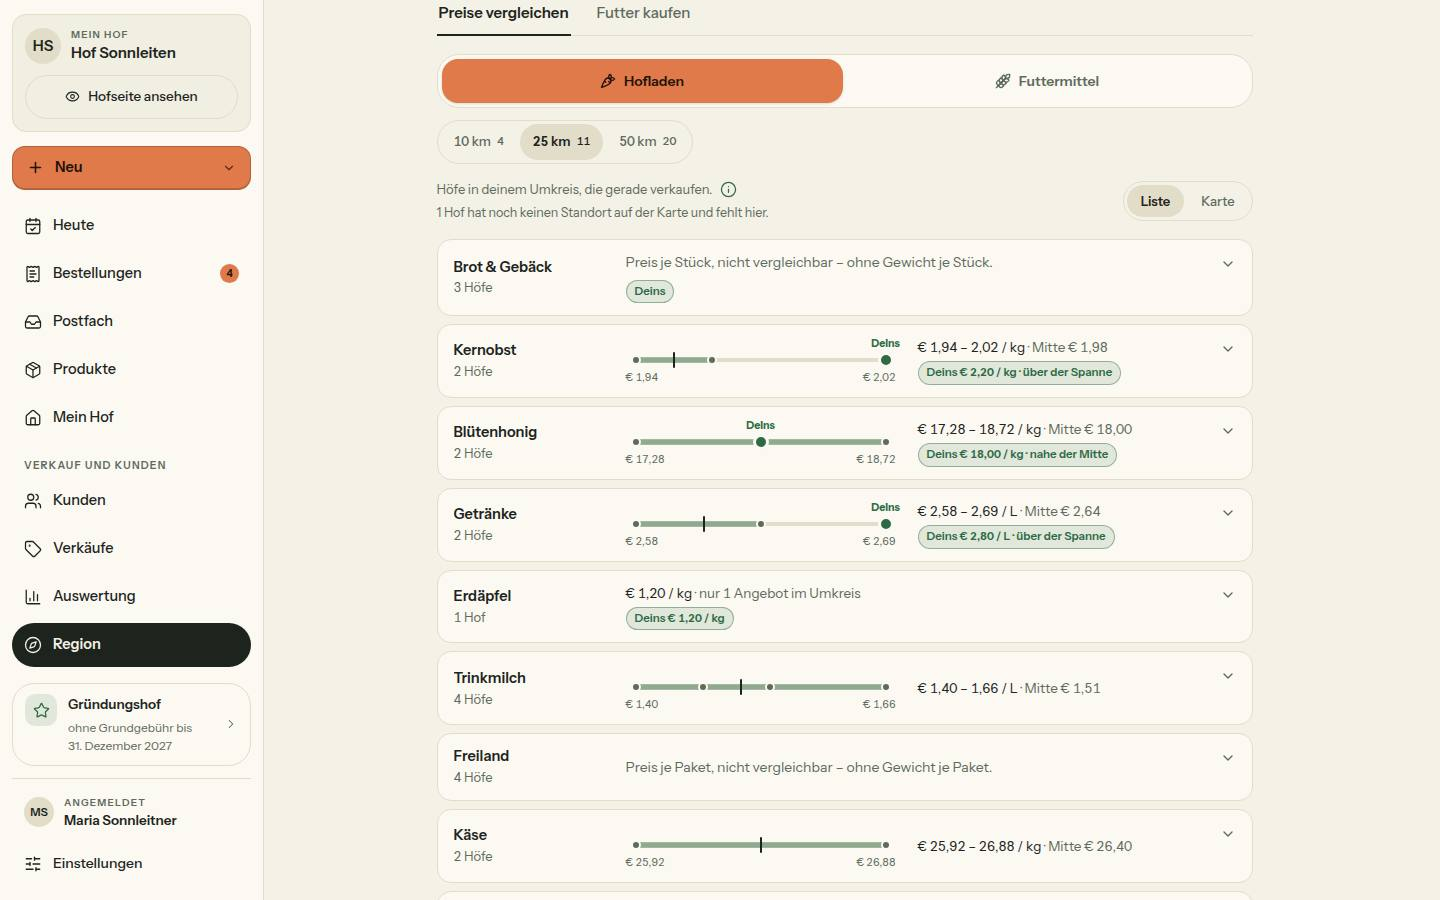
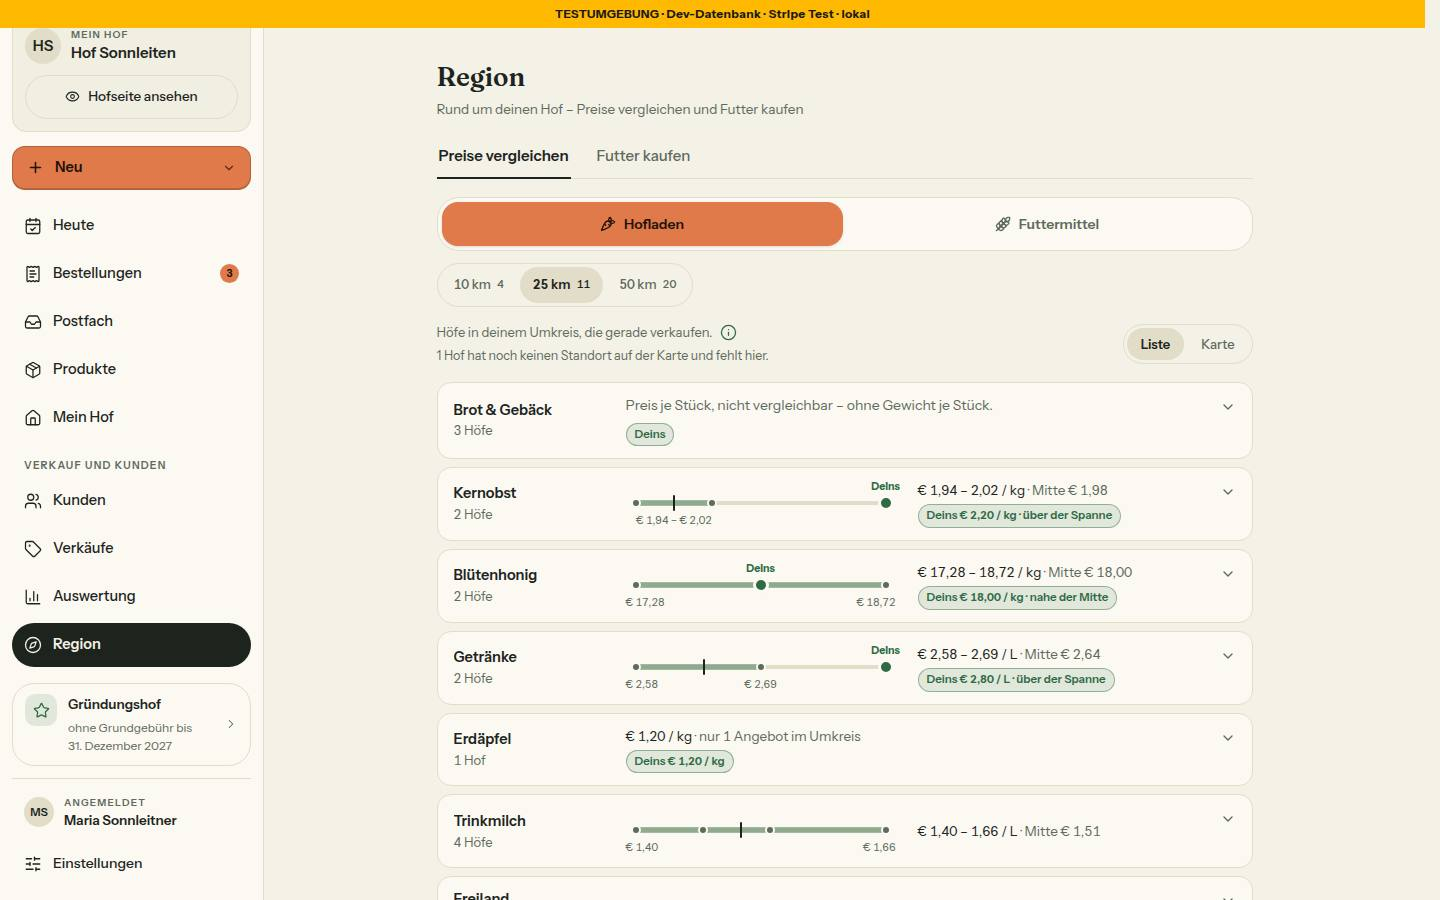
fix: Nr. 124 Nachrunde – Kleinst- und Höchstwert unter den Enden der Spanne
- PreisStreifen: Liegt „Deins“ außerhalb der Spanne, stehen Kleinst- und
  Höchstwert weiter unter den Enden der Spanne statt unter den Enden der
  Spur (sonst las man unter „Deins“ den Wert der Höfe); liegen sie eng,
  steht ein gemeinsames „von – bis“ (Render-Tests mit Gegenprobe)
- Bilder der Liste (390 hell und dunkel, 1440) neu aufgenommen
- DESIGN_SYSTEM und Bericht: Beschriftung der Enden, Leitplanke „kein
  Preis an den Pins“ genau benannt

Claude-Session: https://claude.ai/code/session_016mcnK6M2any3pAayV5rccV

diff --git a/src/components/region/preis-streifen.tsx b/src/components/region/preis-streifen.tsx
@@ -19,6 +19,10 @@ import { cn } from '@/lib/utils'
  *
  * Gezeichnet wird über die Spanne der Höfe hinaus, wenn „Deins" außerhalb
  * liegt — die Skala reicht dann bis zu deinem Wert (Board: „über der Spanne").
+ * Kleinst- und Höchstwert stehen auch dann unter den Enden der SPANNE, nicht
+ * unter den Enden der Spur: sonst läse man unter „Deins" den Höchst- bzw.
+ * Kleinstwert der Höfe als deinen Preis. Liegen die Enden zu eng, steht ein
+ * gemeinsames „von – bis" unter der Spanne.
  */
 
 /** Innenrand der Spur: So weit stehen die äußeren Punkte von der Kante. */
@@ -29,12 +33,25 @@ function links(anteil: number): CSSProperties {
   return { left: `calc(${RAND_PX}px + ${anteil} * (100% - ${2 * RAND_PX}px))` }
 }
 
+/** Unter diesem Abstand (Anteil der Spur) passen zwei Beschriftungen nicht nebeneinander. */
+const ENDEN_MIN_ABSTAND = 0.35
+
+/** Eine Beschriftung unter ihrer Stelle: nahe am Rand bündig, sonst mittig — so ragt sie nicht aus dem Bild. */
+function unterDerStelle(anteil: number): CSSProperties {
+  const verschiebung = anteil < 0.15 ? '0%' : anteil > 0.85 ? '-100%' : '-50%'
+  return { ...links(anteil), transform: `translateX(${verschiebung})` }
+}
+
+const ENDE_KLASSE = 'absolute top-[33px] text-[11px] leading-[14px] whitespace-nowrap text-muted-foreground tabular-nums'
+
 export function PreisStreifen({ streifen, className }: { streifen: PreisStreifenDaten; className?: string }): React.JSX.Element {
   const { werte, kleinst, hoechst, mitte, deins } = streifen
   const von = deins === null ? kleinst : Math.min(kleinst, deins)
   const bis = deins === null ? hoechst : Math.max(hoechst, deins)
   // Ein Streifen gibt es nur mit verschiedenen Werten (src/lib/umfeld.ts) — bis > von.
   const anteil = (wert: number) => (wert - von) / (bis - von)
+  const kleinstAnteil = anteil(kleinst)
+  const hoechstAnteil = anteil(hoechst)
 
   return (
     <span role="img" aria-label={streifen.satz} className={cn('relative block h-12 shrink-0', className)}>
@@ -74,8 +91,21 @@ export function PreisStreifen({ streifen, className }: { streifen: PreisStreifen
           </span>
         </>
       )}
-      <span className="absolute top-[33px] left-0 text-[11px] leading-[14px] text-muted-foreground tabular-nums">{streifen.kleinstText}</span>
-      <span className="absolute top-[33px] right-0 text-[11px] leading-[14px] text-muted-foreground tabular-nums">{streifen.hoechstText}</span>
+      {hoechstAnteil - kleinstAnteil < ENDEN_MIN_ABSTAND ? (
+        <span data-ende="spanne" className={ENDE_KLASSE} style={unterDerStelle((kleinstAnteil + hoechstAnteil) / 2)}>
+          {streifen.kleinstText} – {streifen.hoechstText}
+        </span>
+      ) : (
+        <>
+          {/* Liegt „Deins" innerhalb, sind die Enden der Spanne die Enden der Spur. */}
+          <span data-ende="kleinst" className={cn(ENDE_KLASSE, kleinstAnteil === 0 && 'left-0')} style={kleinstAnteil === 0 ? undefined : unterDerStelle(kleinstAnteil)}>
+            {streifen.kleinstText}
+          </span>
+          <span data-ende="hoechst" className={cn(ENDE_KLASSE, hoechstAnteil === 1 && 'right-0')} style={hoechstAnteil === 1 ? undefined : unterDerStelle(hoechstAnteil)}>
+            {streifen.hoechstText}
+          </span>
+        </>
+      )}
     </span>
   )
 }

diff --git a/tests/preis-streifen.test.ts b/tests/preis-streifen.test.ts
@@ -285,6 +285,43 @@ describe('PreisStreifen — ein Bild mit Satz, ohne Namen und ohne Antippen', ()
     expect(html.split(daten.satz)).toHaveLength(2)
   })
 
+  /** Das Element mit `data-ende="…"` als Text samt Attributen. */
+  const ende = (html: string, art: string) => html.match(new RegExp(`<span data-ende="${art}"[^>]*>[^<]*`))?.[0] ?? ''
+
+  it('„Deins" innerhalb: Kleinst- und Höchstwert an den Enden der Spur', () => {
+    const html = renderToStaticMarkup(createElement(PreisStreifen, { streifen: daten }))
+    expect(ende(html, 'kleinst')).toContain('left-0')
+    expect(ende(html, 'kleinst')).toContain('€ 1,47')
+    expect(ende(html, 'hoechst')).toContain('right-0')
+    expect(ende(html, 'hoechst')).toContain('€ 1,66')
+  })
+
+  it('„Deins" über der Spanne: der Höchstwert steht unter dem Ende der Spanne, nicht unter „Deins"', () => {
+    // Skala 147–175: das Ende der Spanne (166) liegt bei 19/28 der Spur.
+    const html = renderToStaticMarkup(createElement(PreisStreifen, { streifen: { ...daten, deins: 175 } }))
+    const hoechst = ende(html, 'hoechst')
+    expect(hoechst).not.toContain('right-0')
+    expect(hoechst).toContain(`${19 / 28} *`)
+    expect(hoechst).toContain('translateX(-50%)')
+    expect(ende(html, 'kleinst')).toContain('left-0')
+  })
+
+  it('„Deins" unter der Spanne: der Kleinstwert steht unter dem Ende der Spanne', () => {
+    // Skala 120–166: das Ende der Spanne (147) liegt bei 27/46 der Spur.
+    const html = renderToStaticMarkup(createElement(PreisStreifen, { streifen: { ...daten, deins: 120 } }))
+    const kleinst = ende(html, 'kleinst')
+    expect(kleinst).not.toContain('left-0')
+    expect(kleinst).toContain(`${27 / 46} *`)
+    expect(ende(html, 'hoechst')).toContain('right-0')
+  })
+
+  it('liegen die Enden der Spanne eng (Deins weit draußen), steht ein gemeinsames „von – bis" unter der Spanne', () => {
+    const html = renderToStaticMarkup(createElement(PreisStreifen, { streifen: { ...daten, deins: 220 } }))
+    expect(ende(html, 'spanne')).toContain('€ 1,47 – € 1,66')
+    expect(html).not.toContain('data-ende="kleinst"')
+    expect(html).not.toContain('data-ende="hoechst"')
+  })
+
   it('ohne „Deins" kein grüner Punkt und kein Wort „Deins"', () => {
     const html = renderToStaticMarkup(createElement(PreisStreifen, { streifen: { ...daten, deins: null, satz: '3 Höfe von € 1,47 bis € 1,66 / L, Mitte € 1,58' } }))
     expect(html).not.toContain('data-punkt="deins"')

diff --git a/docs/ai/DESIGN_SYSTEM.md b/docs/ai/DESIGN_SYSTEM.md
@@ -564,7 +564,7 @@ Umgesetzt in `src/components/shells/` (KundeShell, KundeFokusShell, HofShell, Ad
 - **In der HofShell** (Mockups web-h5-region-preise, web-h5-region-futter-kaufen; Rahmen `REGION_RAHMEN`, höchstens 896 px). Kopf `RegionKopf`: h1 „Region", „Rund um deinen Hof – Preise vergleichen und Futter kaufen", Reiter als Unterstrich-Links (gewählt Textfarbe mit Strich, `aria-current`). Umkreis als Wanne `KmWahl` (10 · 25 · 50 km, Links, sichtbar 36 px mit 44 px Trefferfläche; mit `zahlen` steht hinter jeder Stufe ihre Zahl, „25 km 8“, die Wanne heißt dann nach `zahlLabel`, etwa „Umkreis, Zahl der Höfe je Stufe“; gezählt in `zaehleJeStufe`) in beiden Reitern.
 - **Eine Quelle mit /hoefe (Register N23, seit Nr. 122):** Region importiert die Bausteine von /hoefe, keine Kopien in src/components/region — `HofKopf` (Name in Serif, Entfernung, PLZ und Ort; mit `bild` 40 px rund bzw. 48 px), `HofKarte`, `HoefeProduktzeilen`, `Abholzeile` und die kurze Hofkarte am Pin `HofKurzkarte` mit `art: 'region'` (Bereich „Hof <Name>“, „Zum Hof“ im Tab-Weg, „Schließen“ mit 44 px und Escape; beim Öffnen Fokus auf die Karte, beim Schließen zurück auf den Pin; den Inhalt unter dem Kopf gibt der Reiter). „So rechnen wir“ ist `ErklaerKnopf`: (i)-Knopf mit dem Titel als `aria-label` (44 px), Dialog aus `ui/dialog` mit Überschrift, Punkten mit Haken und „Verstanden“ (am Handy unten). Der Hinweis auf Höfe ohne Standort kommt aus `ohneStandortHinweis` (lang über Liste und Karte, `kurz` auf der Handy-Karte).
 - **Preise vergleichen (seit Nr. 124, N23; Board v3 §2 und §4):** Bereich-Umschalter (beim Wechsel der Ladepunkt an der gewählten Hälfte, Inhalt `aria-busy`), `KmWahl` mit Zahl je Stufe (`zahlenJeStufe`, `zahlLabel` „Umkreis, Zahl der Höfe je Stufe“), darunter EIN Satz „Höfe in deinem Umkreis, die gerade verkaufen.“ mit `ErklaerKnopf` „So rechnen wir“ (fünf Punkte aus `UMFELD_TEXT`, Knopf „Verstanden“) und den Hinweisen, rechts `Segment` „Liste | Karte" (Zustand der Seite, `replaceState`). Zeilen als Karten (Radius 14, geöffnet grüner Rand): am Computer Sorte und Anzahl (150 px), Streifen (270 px), daneben Spanne · Mitte und „Deins“; am Handy zweizeilig — Sorte und Anzahl, darunter der Streifen über die volle Breite, dann der Text. „Deins" als grüne Marke (`bg-accent/12`, `border-accent/45`, `text-status-fertig`) mit der Lage in Worten („Deins € 1,50 / L · unter der Mitte“). Ein Hof: kein Streifen, „€ 2,90 / kg · nur 1 Angebot im Umkreis“; gleiche Werte: die Zeile ohne Streifen und ohne Mitte; im Futter je Gebindeklasse ein Streifen („Kleingebinde bis 25 kg“, „Großgebinde über 25 kg“). Nicht vergleichbar: der Grund aus `NICHT_VERGLEICHBAR_TEXT`. Aufgeklappt je Hof `HofKopf` (Bild 40, der ganze Kopf ist der Link zur Hofseite) und die Produktzeile (`HoefeProduktzeilen`, Kante 40) des Produkts, das zählt; nach Entfernung, ab dem vierten „n weitere Höfe“, darunter „Kaufen geht über die Hofseite.“ Karte: Pins mit Namen (Regel von /hoefe), „Du“ und Umkreis; Antippen bzw. Enter öffnet `HofKurzkarte` „region“ (am Handy volle Breite unten, am Computer 320 px links unten) mit den ersten zwei kaufbaren Produkten in der Reihenfolge der Hofseite und „Zum Hof“, keine Abholzeile. Leer: `EmptyState` mit „Umkreis auf n km".
-- **`PreisStreifen` (`src/components/region/preis-streifen.tsx`, Register N23):** die Spanne als Bild, 270 × 48 px am Computer, volle Breite am Handy (der Aufrufer gibt die Breite). Spur 4 px (`bg-border`) mit 10 px Innenrand, darauf die Spanne der Höfe 6 px (`bg-accent/45`, Schmuck); je Hof ein Punkt 10 px (`bg-muted-foreground`, 2 px Rand in `card`), die Mitte als Strich 2 × 16 px (`bg-foreground`), „Deins“ als Punkt 16 px (`bg-status-fertig`, 3 px Rand in `card`) mit dem Wort „Deins“ darüber (10,5 px, fett); Kleinst- und Höchstwert unter den Enden (11 px, `text-muted-foreground`). Liegt „Deins“ außerhalb, reicht die Skala bis dorthin. Punkte und Strich ≥ 3:1 zur Karte in beiden Themes. `role="img"` mit dem ganzen Satz als `aria-label` („3 Höfe von € 1,47 bis € 1,66 / L, Mitte € 1,58; deiner € 1,50, unter der Mitte“); die Punkte haben keinen Namen, keinen Titel, keinen Tooltip und sind nicht antippbar. Gerechnet wird in `src/lib/umfeld.ts` mit ganzen Zahlen der kleinsten gezeigten Einheit (Cent, bei € / t und € / dt ganze Euro); der Streifen erst ab zwei Höfen mit verschiedenen Werten, „Deins“ nur bei genau einem eigenen Wert. Leitplanken als Prüfung: `tests/umfeld-leitplanken.test.ts`.
+- **`PreisStreifen` (`src/components/region/preis-streifen.tsx`, Register N23):** die Spanne als Bild, 270 × 48 px am Computer, volle Breite am Handy (der Aufrufer gibt die Breite). Spur 4 px (`bg-border`) mit 10 px Innenrand, darauf die Spanne der Höfe 6 px (`bg-accent/45`, Schmuck); je Hof ein Punkt 10 px (`bg-muted-foreground`, 2 px Rand in `card`), die Mitte als Strich 2 × 16 px (`bg-foreground`), „Deins“ als Punkt 16 px (`bg-status-fertig`, 3 px Rand in `card`) mit dem Wort „Deins“ darüber (10,5 px, fett); Kleinst- und Höchstwert unter den Enden der Spanne (11 px, `text-muted-foreground`). Liegt „Deins“ außerhalb, reicht die Skala bis dorthin; die beiden Werte stehen dann weiter unter den Enden der Spanne, nicht unter „Deins“, und liegen sie zu eng, steht ein gemeinsames „von – bis“ darunter. Punkte und Strich ≥ 3:1 zur Karte in beiden Themes. `role="img"` mit dem ganzen Satz als `aria-label` („3 Höfe von € 1,47 bis € 1,66 / L, Mitte € 1,58; deiner € 1,50, unter der Mitte“); die Punkte haben keinen Namen, keinen Titel, keinen Tooltip und sind nicht antippbar. Gerechnet wird in `src/lib/umfeld.ts` mit ganzen Zahlen der kleinsten gezeigten Einheit (Cent, bei € / t und € / dt ganze Euro); der Streifen erst ab zwei Höfen mit verschiedenen Werten, „Deins“ nur bei genau einem eigenen Wert. Leitplanken als Prüfung: `tests/umfeld-leitplanken.test.ts`.
 - **Futter kaufen:** Umkreis, Futterart (`FilterChip`-Links: Alle und die Kategorien des Bereichs, die es gibt) und Menge (Alle Mengen · Kleinmengen · Ballen & mehr, nur was es gibt); Satz „Hier siehst du nur registrierte Futtermittelbetriebe – du kaufst für deine Tiere." Je Familie eine Karte: Name (zwei Zeilen, `title`), „Hof · Entfernung · Abholung …", grünes Schild mit Schild-Symbol im Wortlaut E9, rechts „Grundpreis" mit Wert, darunter die Größen als Link-Kacheln (Name, Preis, 44 px) und grün „Bestellen" (Link zur Produktseite). Größen und „Bestellen" tragen `?kaeufer=betrieb` (seit Nr. 29): In der Kasse ist „Ich bestelle als landwirtschaftlicher Betrieb" schon angehakt, sobald der Abschnitt „Betrieb" erscheint; die Kundin kann den Haken abwählen. Sonst ändert sich an der Kasse nichts — kein Hinweis, kein eigener Zustand. Am Ende gestrichelt „Du verkaufst selbst Futter? …" mit Link „Futtermittel anlegen". Leer: `EmptyState` mit „Alles Futter zeigen" bzw. „Umkreis auf n km". Keine Karte (Abweichung zum Mockup).
 - **Zustände beider Reiter:** ohne eigenen Standort (Board v2 §4) `EmptyState` „Wo liegt dein Hof?“ mit beiden Folgen im Satz und grün „Standort auf der Karte setzen“ (direkt zur Karte im Hofprofil, `STANDORT_SETZEN_HREF`), darunter „So steht dein Hof gerade in der Liste der Kundschaft“ mit der eigenen `HofKarte` samt „Nicht auf der Karte“ — genau der Eintrag von /hoefe; steht der Hof nicht in der Liste (Testhof, nicht sichtbar), ein Satz statt der Karte. Laden: keine `loading.tsx` — die alte Ansicht bleibt stehen, der gewählte Reiter bzw. die gewählte Stufe des Umkreises zeigt den Ladepunkt, der Inhalt trägt `aria-busy` (`LadeRahmen`, `LadeInhalt`); `RegionLaden` zeigt nur noch die Umleitung /analytics/umfeld. Fehler orange `Hinweiskarte` mit „Noch einmal versuchen".
 

diff --git a/docs/nachtlauf/berichte/124.md b/docs/nachtlauf/berichte/124.md
@@ -18,7 +18,7 @@ tests/{preis-streifen,region-bausteine,umfeld-karte,umfeld-leitplanken,umfeld-qu
 
 ## Leitplanken als Prüfungen (für die rechtliche Prüfung)
 1. Kein Text empfiehlt oder wertet: Wache über alle String-Literale/JSX-Texte von `umfeld.ts`, `umfeld-*.tsx`, `preis-streifen.tsx` (ohne className, Wortanfang, Umlaut-Grenze); verboten „empfehl/empfiehl“ (außer „empfiehlt keine“), „solltest“, „zu teuer/billig/günstig“, „erhöh“, „senk“, „günstiger als“, „teurer als“, „Rang“. Gegenprobe „Du solltest erhöhen“ rot (`umfeld-leitplanken.test.ts`).
-2. Kein Preis in den Daten der Pins: `JSON.stringify(baueUmfeldKarte(…))` ohne „€“, Gegenprobe Zeilen mit „€“; dazu Integrationstest.
+2. Kein Preis an den Pins: `KartenHof` (die Pins) bekommt nur Kennung, Nummer, Lage und Namen (Test in `umfeld-karte`); `JSON.stringify(baueUmfeldKarte(…))` ohne „€“ (Gegenprobe Zeilen mit „€“). Die Daten der Karte am Pin tragen die Preise der zwei Produkte als Zahl – sie erscheinen erst nach dem Antippen, wie auf der Hofseite.
 3. Keine Sortierung nach Preis: aufgeklappte Zeile, Zeilen und Karte am Pin mit vertauschten Preisen unverändert; Query behält `PRODUCT_ORDER_BY`.
 4. Testhof, pausierter und eigener Hof fehlen in Zählung, Streifen und Karte: je ein Test (Unit + `integration/umfeld.int.test.ts`; Gegenprobe ohne `isPaused: false` rot).
 5. Keine Namen an Punkten: `PreisStreifen` ohne `title`, `tabindex`, Knopf oder Link (Render-Test); Werte ohne Namen und IDs.
@@ -48,7 +48,7 @@ tests/{preis-streifen,region-bausteine,umfeld-karte,umfeld-leitplanken,umfeld-qu
 - typecheck 0, lint 0 Fehler / 5 Warnungen (Grundstand), test 482 / 9198 grün (vor jedem Commit). Integration unter Sperre: umfeld, testhof, region, auswertung-region – 4 / 23 grün.
 - Axe 0 Verstöße: Liste 390 hell + dunkel, 1440; Karte mit Karte am Pin 390. Kontrast Punkte/Strich/„Deins“ zur Karte: hell 5,4 / 15,1 / 6,0, dunkel 7,1 / 15,1 / 10,1. Tippflächen: (i) 44, Umkreis 36 + 2 × 4, Zeile ≥ 44, Kopf-Link 45, „weitere Höfe“ 44, Schließen 44.
 - ![Liste 390](bilder/124/preise-liste-390-hell.jpg) ![Liste 390 dunkel](bilder/124/preise-liste-390-dunkel.jpg) ![Liste 1440](bilder/124/preise-liste-1440-hell.jpg) ![Futter zwei Klassen](bilder/124/futter-klassen-390-hell.jpg) ![Eier](bilder/124/eier-390-hell.jpg) ![aufgeklappt](bilder/124/aufgeklappt-390-hell.jpg) ![Karte 390](bilder/124/karte-pin-390-hell.jpg) ![Karte 1440](bilder/124/karte-pin-1440-hell.jpg) ![So rechnen wir](bilder/124/so-rechnen-wir-390-hell.jpg)
-- Lücke der Seed-Daten: „Deins unter der Spanne“ kommt nicht vor (Lage im Test). Kacheln ohne Netz grau.
+- Lücke der Seed-Daten: „Deins unter der Spanne“ kommt nicht vor (Lage im Test). Kacheln ohne Netz grau. Nachrunde des Dirigenten: Kleinst- und Höchstwert stehen unter den Enden der Spanne, nicht der Spur (bei „Deins“ außerhalb; liegen sie eng, ein „von – bis“), Render-Tests mit Gegenprobe, die drei Listenbilder neu (Axe 0). Mengen als Tausendstel bleiben in `umfeld.ts` (Decimal(10,3) exakt, Muster `grundpreisCents`; Geld in ganzen Cent).
 
 ## Mockup-Abweichungen (mit Bild)
 - Eier je Stück fehlt (STOPP) – `eier-390-hell.jpg`; „So rechnen wir“ Punkt 4 ohne „oder Stück“ – `so-rechnen-wir-390-hell.jpg`.
